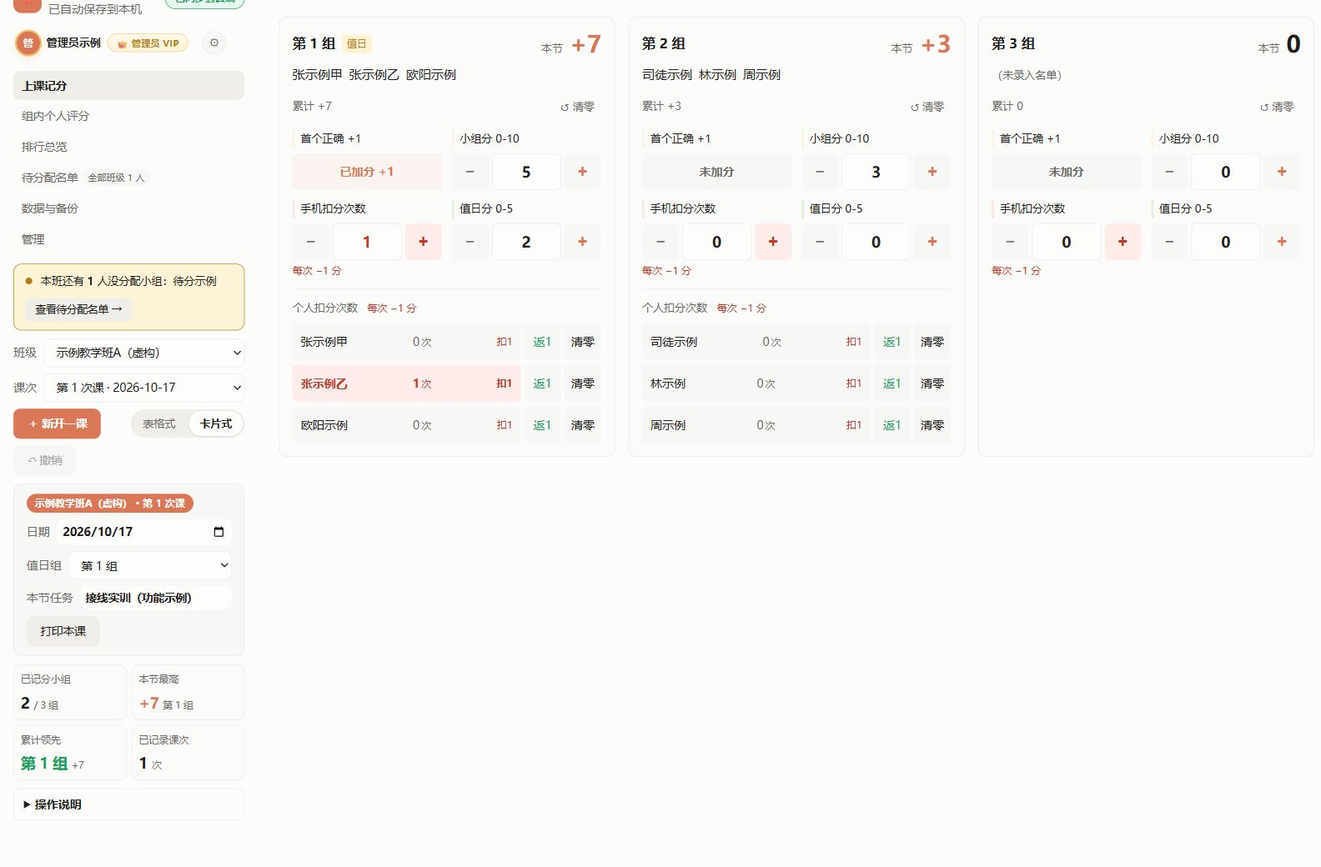
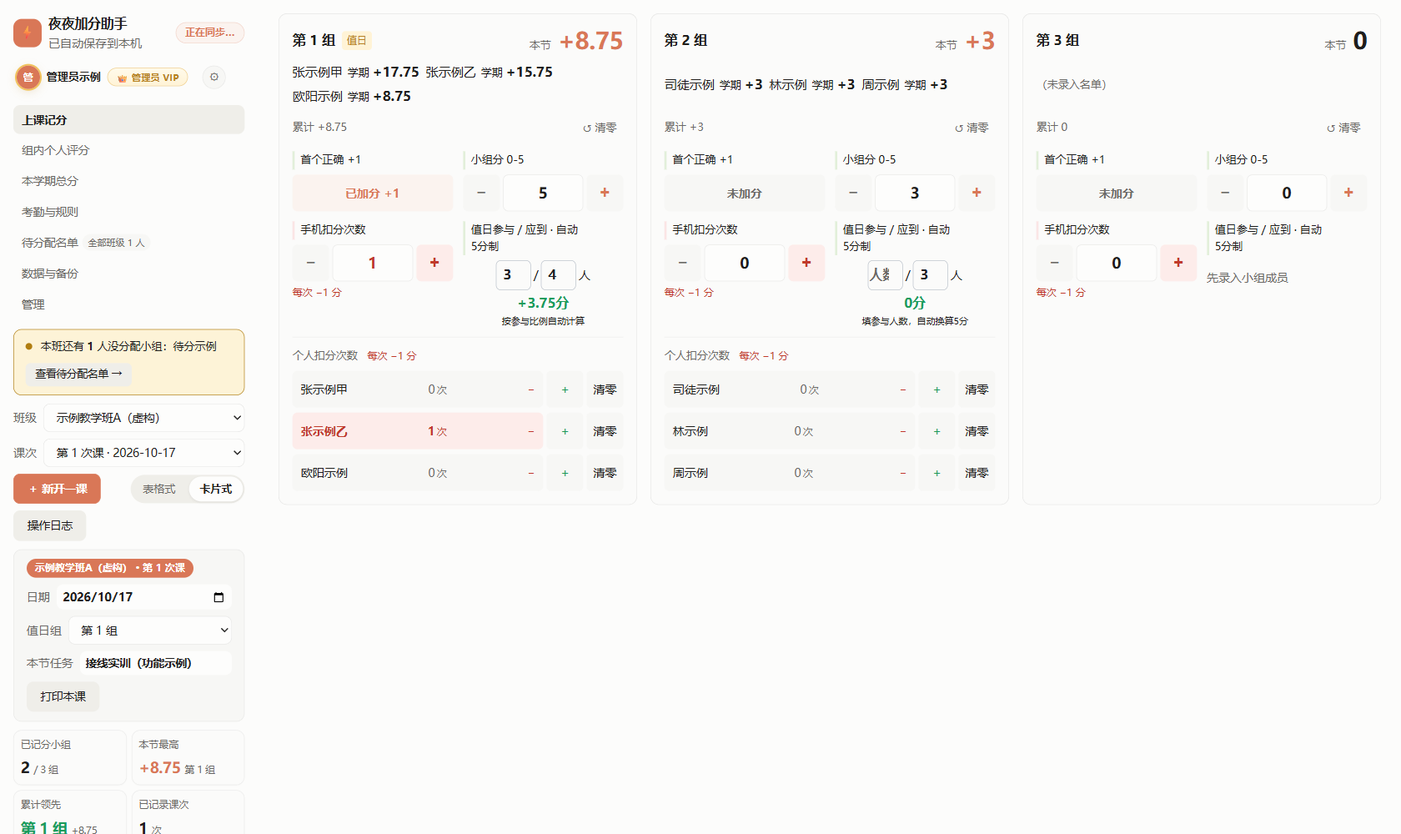
Compute duty points from participation and scale all semester rewards

diff --git a/assessment.js b/assessment.js
@@ -1,7 +1,7 @@
 /* Criterion-based regular grades; raw points and attendance history remain unchanged. */
 (function (root) {
   'use strict';
-  var defaults = {totalLessons:24, late:1, truant:3, leave:0, early:1, passScore:60, taskTarget:0, bonusCap:5, customRules:[]};
+  var defaults = {totalLessons:24, late:1, truant:3, leave:0, early:1, passScore:60, taskTarget:0, customRules:[]};
   var labels = {present:'正常出勤',late:'迟到',truant:'旷课',leave:'请假',early:'早退'};
   function esc(v) { return String(v == null?'':v).replace(/[&<>"']/g,function(c){return {'&':'&amp;','<':'&lt;','>':'&gt;','"':'&quot;',"'":'&#39;'}[c];}); }
   function round(n) { return Math.round((n+Number.EPSILON)*10)/10; }
@@ -10,7 +10,6 @@
     var cfg=Object.assign({},defaults,cls.assessmentSettings||{});
     ['totalLessons','late','truant','leave','early','passScore'].forEach(function(k){var max=k==='totalLessons'?1000:100,min=k==='totalLessons'?1:0;if(!Number.isInteger(cfg[k])||cfg[k]<min||cfg[k]>max)cfg[k]=defaults[k];});
     if(!Number.isFinite(cfg.taskTarget)||cfg.taskTarget<0||cfg.taskTarget>100000)cfg.taskTarget=0;
-    if(!Number.isFinite(cfg.bonusCap)||cfg.bonusCap<0||cfg.bonusCap>5)cfg.bonusCap=5;
     cfg.customRules=Array.isArray(cfg.customRules)?cfg.customRules.filter(function(r){return r&&typeof r.id==='string'&&typeof r.name==='string'&&Number.isInteger(r.loss)&&r.loss>=0&&r.loss<=100;}).slice(0,20):[];
     return cfg;
   }
@@ -48,8 +47,9 @@
     sorted.forEach(function(m,i){
       if(i===0||m.total!==previous)rank=i+1;previous=m.total;
       m.rawRank=rank;m.task=taskEvidence(lessons,m,cfg);
-      m.bonus=Math.max(-cfg.bonusCap,Math.min(cfg.bonusCap,m.groupScore));
-      m.learning=round(40+Math.max(0,Math.min(40,40*m.task.rate+m.bonus-m.personal)));
+      m.bonus=m.groupScore;
+      m.performanceRate=m.task.maximum>0?Math.max(0,Math.min(1,(m.task.earned+m.groupScore-m.personal)/m.task.maximum)):0;
+      m.learning=round(40+40*m.performanceRate);
       m.confirmation=(cls.foundationChecks||{})[m.key]||'pending';
       var loss=0,recorded=0;
       lessons.forEach(function(l){var a=l.attendance&&l.attendance[m.key];if(a){recorded++;loss+=Number(a.loss)||0;}});
@@ -70,21 +70,21 @@
   function confirmationText(m) {return m.confirmation==='met'?'基础要求已满足':m.confirmation==='makeup'?'待补做':'基础要求待确认';}
   function renderRank(ctx) {
     var cls=ctx.cls,cfg=settings(cls),ms=rows(cls,ctx.lessons,ctx.raw);
-    ctx.root.innerHTML='<details class="rank-note"><summary>达标赋分说明：正常完成至少60分，名次不决定赋分</summary><p>原始累计 = 全组累计加分 + 个人项目累计分 − 个人扣分，原记录保留。学习分 = 40基础 + clamp(40×任务达成率 + 有限小组奖励 − 个人扣分, 0, 40)，封顶80；再加考勤0–20得到平时分。小组奖励最多'+cfg.bonusCap+'分，全部同学都达标可以一起得高分。</p><p>达成率按本人已评分项目得分/满分计算，每个命名项目满分5；明确0分计入，未批改不当0分且标记待批改。手动基准为'+(cfg.taskTarget||'自动按已评分项目')+'。基础要求由教师确认，不自动把未做任务的学生判定及格；项目未齐、考勤未齐或基础未确认都只显示预估。考勤未记录按正常预估，不伪造签到。平时40%＋期末60%。</p></details><div class="assessment-actions"><button class="btn" id="assessmentGoAttendance">考勤与规则</button><button class="btn" id="assessmentExport">导出综合成绩CSV</button></div><div class="assessment-scroll"><table class="data assessment-table"><thead><tr><th>展示名次</th><th>姓名 / 基础要求</th><th>小组</th><th>当前累计</th><th>学习赋分/80</th><th>考勤/20</th><th>平时分/100</th><th>折合/40</th><th>期末需考/100</th><th>实际期末</th><th>综合/100</th></tr></thead><tbody>'+ms.map(function(m){return '<tr><td>'+m.rank+'</td><td><b>'+esc(m.name)+'</b><small>'+esc(m.sid||m.no||'')+'</small><select class="foundation-check" data-foundation-key="'+esc(m.key)+'" aria-label="'+esc(m.name)+' 基础要求"><option value="pending"'+(m.confirmation==='pending'?' selected':'')+'>待确认</option><option value="met"'+(m.confirmation==='met'?' selected':'')+'>已满足</option><option value="makeup"'+(m.confirmation==='makeup'?' selected':'')+'>待补做</option></select></td><td>'+(m.gno?'第'+m.gno+'组':'待分配')+'</td><td><b>'+m.total+'</b><small>全组 '+m.groupScore+' · 个人项目分 '+m.project+' · 扣 '+m.personal+'</small></td><td>'+m.learning+'<small>任务 '+m.task.earned+'/'+m.task.maximum+' · '+round(m.task.rate*100)+'%<br>小组奖励 '+m.bonus+(m.task.pending?' · '+m.task.pending+'项待批改':'')+(!m.task.maximum?' · 未设置有效任务':'')+'</small></td><td>'+m.attendance+'<small>'+m.recorded+'/'+ctx.lessons.length+'课已登记 · 扣'+m.loss+'单位</small></td><td><b>'+m.regular+'</b>'+(!m.ready?'<small>预估 · '+confirmationText(m)+'</small>':'<small>资料已齐</small>')+'</td><td>'+m.contribution+'</td><td>'+(m.needed>100?'超过100，无法达到':m.needed)+(!m.ready?'<small>预估</small>':'')+'</td><td><input class="assessment-exam" aria-label="'+esc(m.name)+' 实际期末成绩" data-exam-key="'+esc(m.key)+'" type="number" min="0" max="100" step="0.1" value="'+m.exam+'" placeholder="待考"></td><td>'+(m.final==null?'—':m.final)+(!m.ready&&m.final!==null?'<small>待复核</small>':'')+'</td></tr>';}).join('')+'</tbody></table></div><p class="rank-note">正常出勤且基础要求已满足时，平时分最低60；考勤扣分可低于60。零分不自动等于已达标。排名仅展示，不改变他人分数。及格线'+cfg.passScore+'，期末需考向上取到0.1分。含待分配'+ms.length+'人，计划'+cfg.totalLessons+'课。</p>';
+    ctx.root.innerHTML='<details class="rank-note"><summary>达标赋分说明：正常完成至少60分，名次不决定赋分</summary><p>原始累计 = 全组累计加分 + 个人项目累计分 − 个人扣分，原记录保留。所有课次的首个正确、小组分、值日分持续累计，没有学期奖励5分封顶。综合比例＝（已评项目实得＋全组累计净加分−个人扣分）÷项目满分，限定在0–100%。学习分＝40基础＋40×综合比例，最高80；加考勤0–20得到平时百分制。原始奖励积分不封顶，百分制最高100，不等于课堂只能加100个积分。例：项目80/100＋累计净奖励10→综合90%，学习76＋正常考勤20＝平时96；奖励增至20→平时100。值日只填参与/应到人数，自动5×人数比例，所有汇总随改分、撤销和补录实时重算。</p><p>达成率按本人已评分项目得分/满分计算，每个命名项目满分5；明确0分计入，未批改不当0分且标记待批改。手动基准为'+(cfg.taskTarget||'自动按已评分项目')+'。基础要求由教师确认，不自动把未做任务的学生判定及格；项目未齐、考勤未齐或基础未确认都只显示预估。考勤未记录按正常预估，不伪造签到。平时40%＋期末60%。</p></details><div class="assessment-actions"><button class="btn" id="assessmentGoAttendance">考勤与规则</button><button class="btn" id="assessmentExport">导出综合成绩CSV</button></div><div class="assessment-scroll"><table class="data assessment-table"><thead><tr><th>展示名次</th><th>姓名 / 基础要求</th><th>小组</th><th>当前累计</th><th>学习赋分/80</th><th>考勤/20</th><th>平时分/100</th><th>折合/40</th><th>期末需考/100</th><th>实际期末</th><th>综合/100</th></tr></thead><tbody>'+ms.map(function(m){return '<tr><td>'+m.rank+'</td><td><b>'+esc(m.name)+'</b><small>'+esc(m.sid||m.no||'')+'</small><select class="foundation-check" data-foundation-key="'+esc(m.key)+'" aria-label="'+esc(m.name)+' 基础要求"><option value="pending"'+(m.confirmation==='pending'?' selected':'')+'>待确认</option><option value="met"'+(m.confirmation==='met'?' selected':'')+'>已满足</option><option value="makeup"'+(m.confirmation==='makeup'?' selected':'')+'>待补做</option></select></td><td>'+(m.gno?'第'+m.gno+'组':'待分配')+'</td><td><b>'+m.total+'</b><small>全组 '+m.groupScore+' · 个人项目分 '+m.project+' · 扣 '+m.personal+'</small></td><td>'+m.learning+'<small>任务 '+m.task.earned+'/'+m.task.maximum+' · '+round(m.task.rate*100)+'%<br>累计全组净加分 '+m.bonus+'<br>综合比例 '+round(m.performanceRate*100)+'%'+(m.task.pending?' · '+m.task.pending+'项待批改':'')+(!m.task.maximum?' · 未设置有效任务':'')+'</small></td><td>'+m.attendance+'<small>'+m.recorded+'/'+ctx.lessons.length+'课已登记 · 扣'+m.loss+'单位</small></td><td><b>'+m.regular+'</b>'+(!m.ready?'<small>预估 · '+confirmationText(m)+'</small>':'<small>资料已齐</small>')+'</td><td>'+m.contribution+'</td><td>'+(m.needed>100?'超过100，无法达到':m.needed)+(!m.ready?'<small>预估</small>':'')+'</td><td><input class="assessment-exam" aria-label="'+esc(m.name)+' 实际期末成绩" data-exam-key="'+esc(m.key)+'" type="number" min="0" max="100" step="0.1" value="'+m.exam+'" placeholder="待考"></td><td>'+(m.final==null?'—':m.final)+(!m.ready&&m.final!==null?'<small>待复核</small>':'')+'</td></tr>';}).join('')+'</tbody></table></div><p class="rank-note">正常出勤且基础要求已满足时，平时分最低60；考勤扣分可低于60。零分不自动等于已达标。排名仅展示，不改变他人分数。及格线'+cfg.passScore+'，期末需考向上取到0.1分。含待分配'+ms.length+'人，计划'+cfg.totalLessons+'课。</p>';
     ctx.root.querySelector('#assessmentGoAttendance').onclick=ctx.openAttendance;
     ctx.root.querySelectorAll('[data-foundation-key]').forEach(function(input){input.onchange=function(){if(!cls.foundationChecks)cls.foundationChecks={};cls.foundationChecks[input.dataset.foundationKey]=input.value;var m=ms.find(function(m){return m.key===input.dataset.foundationKey;});ctx.log('基础要求确认',cls.name+' · '+m.name+' → '+input.options[input.selectedIndex].textContent);ctx.save();renderRank(ctx);};});
     ctx.root.querySelectorAll('[data-exam-key]').forEach(function(input){input.onchange=function(){var v=input.value===''?null:Number(input.value);if(v!==null&&(!Number.isFinite(v)||v<0||v>100)){ctx.message('期末成绩须为0–100分。');return;}var old=cls.examScores&&cls.examScores[input.dataset.examKey];if(!cls.examScores)cls.examScores={};if(v===null)delete cls.examScores[input.dataset.examKey];else cls.examScores[input.dataset.examKey]=v;ctx.log('期末成绩',cls.name+' · '+ms.find(function(m){return m.key===input.dataset.examKey;}).name+'：'+(old==null?'未填':old)+' → '+(v===null?'未填':v));ctx.save();renderRank(ctx);};});
-    ctx.root.querySelector('#assessmentExport').onclick=function(){ctx.export(cls.name+'_综合成绩.csv',[['展示名次','姓名','学号','小组','原始累计','任务得分','任务满分','待批改数','达成率','有限小组奖励','学习赋分/80','考勤/20','平时分/100','折合/40','期末需考','实际期末','综合/100','基础要求','资料齐全']].concat(ms.map(function(m){return [m.rank,m.name,m.sid||m.no||'',m.gno||'待分配',m.total,m.task.earned,m.task.maximum,m.task.pending,round(m.task.rate*100)+'%',m.bonus,m.learning,m.attendance,m.regular,m.contribution,m.needed>100?'超过100':m.needed,m.exam,m.final==null?'':m.final,confirmationText(m),m.ready?'是':'否，预估待复核'];})));};
+    ctx.root.querySelector('#assessmentExport').onclick=function(){ctx.export(cls.name+'_综合成绩.csv',[['展示名次','姓名','学号','小组','原始累计','任务得分','任务满分','待批改数','达成率','累计全组净加分','学习赋分/80','考勤/20','平时分/100','折合/40','期末需考','实际期末','综合/100','基础要求','资料齐全']].concat(ms.map(function(m){return [m.rank,m.name,m.sid||m.no||'',m.gno||'待分配',m.total,m.task.earned,m.task.maximum,m.task.pending,round(m.task.rate*100)+'%',m.bonus,m.learning,m.attendance,m.regular,m.contribution,m.needed>100?'超过100':m.needed,m.exam,m.final==null?'':m.final,confirmationText(m),m.ready?'是':'否，预估待复核'];})));};
   }
   function renderAttendance(ctx) {
     var cls=ctx.cls,cfg=settings(cls),students=roster(cls,ctx.raw),lesson=ctx.lesson;
-    ctx.root.innerHTML='<h2 class="sec-title">考勤与扣分设置</h2><div class="card lesson-bar"><label class="field">班级<select id="attendanceClassSel">'+ctx.classes.map(function(c){return '<option value="'+esc(c.id)+'"'+(c.id===cls.id?' selected':'')+'>'+esc(c.name)+'</option>';}).join('')+'</select></label><label class="field">课次<select id="attendanceLessonSel"'+(!ctx.lessons.length?' disabled':'')+'>'+(!ctx.lessons.length?'<option>暂无课次</option>':ctx.lessons.map(function(l){return '<option value="'+esc(l.id)+'"'+(lesson&&l.id===lesson.id?' selected':'')+'>第'+l.seq+'次 · '+esc(l.date)+'</option>';}).join(''))+'</select></label></div><details class="card assessment-settings"><summary>本班赋分与考勤规则</summary><form id="assessmentSettingsForm"><div class="assessment-settings-grid">'+[['totalLessons','本学期计划课次',1,1000],['late','迟到扣课节单位',0,100],['truant','旷课扣课节单位',0,100],['leave','请假扣课节单位',0,100],['early','早退扣课节单位',0,100],['passScore','综合及格线',0,100],['taskTarget','手动任务满分（0为自动）',0,100000],['bonusCap','小组奖励上限（最多5）',0,5]].map(function(f){return '<label class="field col">'+f[1]+'<input name="'+f[0]+'" type="number" step="1" min="'+f[2]+'" max="'+f[3]+'" value="'+cfg[f[0]]+'" required></label>';}).join('')+'</div><p class="note">考勤分 = max(0, 20 × (计划课次 − 累计扣单位) ÷ 计划课次)。旧考勤保留当时扣单位，规则修改仅用于之后登记；如需调整旧记录，请在对应课次重新保存。学习40基础+40任务表现（含最多5分小组奖励），正常考勤20，平时40%+期末60%。手动满分为0时按命名且已评分项目计算，空白待批改不会当0。</p><button type="submit" class="btn primary">保存本班规则</button></form><h4>自定义原因</h4><div id="attendanceCustomRules">'+(cfg.customRules||[]).map(function(r){return '<span class="attendance-rule">'+esc(r.name)+' · 扣'+r.loss+'单位 <button class="btn tiny" data-remove-rule="'+esc(r.id)+'" title="停用规则，历史记录保留">停用</button></span>';}).join('')+'</div><form id="attendanceCustomForm" class="btnrow"><input id="attendanceCustomName" aria-label="自定义考勤原因" maxlength="40" placeholder="例如：未到原因" required><input id="attendanceCustomLoss" aria-label="自定义扣单位" type="number" min="0" max="100" step="1" value="1" required><button class="btn" type="submit">添加原因</button></form></details><p class="note">按课次保存，包含未分组人员。未登记不伪造出勤记录；修改此表只影响考勤模块，不重复扣课堂积分。</p>'+(lesson?'<div class="card"><div class="assessment-actions"><input id="attendanceSearch" aria-label="搜索考勤学生" placeholder="姓名 / 学号"><label><input id="attendanceSelectAll" type="checkbox">全选可见</label><select id="attendanceBatchStatus" aria-label="批量考勤状态">'+options(cfg,'')+'</select><button id="attendanceApplyBatch" class="btn">应用到所选</button><button id="attendanceSave" class="btn primary">保存本课考勤</button></div><p id="attendanceDirty" class="note" role="status">没有未保存的改动。</p><div class="assessment-scroll"><table class="data attendance-table"><thead><tr><th>选择</th><th>姓名</th><th>学号</th><th>小组</th><th>本课状态</th><th>已保存扣单位</th></tr></thead><tbody>'+students.map(function(m){var a=lesson.attendance&&lesson.attendance[m.key];return '<tr data-att-row><td><input type="checkbox" data-att-check="'+esc(m.key)+'" aria-label="选择'+esc(m.name)+'"></td><td>'+esc(m.name)+'</td><td>'+esc(m.sid||m.no||'')+'</td><td>'+(m.gno?'第'+m.gno+'组':'待分配')+'</td><td><select data-att-key="'+esc(m.key)+'" aria-label="'+esc(m.name)+' 考勤">'+options(cfg,a&&a.status)+'</select>'+(a&&!labels[a.status]&&!(cfg.customRules||[]).some(function(r){return r.id===a.status;})?'<small>历史原因：'+esc(a.label)+'（保留）</small>':'')+'</td><td>'+(a?a.loss:'—')+'</td></tr>';}).join('')+'</tbody></table></div></div>':'<p class="card">请先在上课记分中新开一课，再登记考勤。</p>');
+    ctx.root.innerHTML='<h2 class="sec-title">考勤与扣分设置</h2><div class="card lesson-bar"><label class="field">班级<select id="attendanceClassSel">'+ctx.classes.map(function(c){return '<option value="'+esc(c.id)+'"'+(c.id===cls.id?' selected':'')+'>'+esc(c.name)+'</option>';}).join('')+'</select></label><label class="field">课次<select id="attendanceLessonSel"'+(!ctx.lessons.length?' disabled':'')+'>'+(!ctx.lessons.length?'<option>暂无课次</option>':ctx.lessons.map(function(l){return '<option value="'+esc(l.id)+'"'+(lesson&&l.id===lesson.id?' selected':'')+'>第'+l.seq+'次 · '+esc(l.date)+'</option>';}).join(''))+'</select></label></div><details class="card assessment-settings"><summary>本班赋分与考勤规则</summary><form id="assessmentSettingsForm"><div class="assessment-settings-grid">'+[['totalLessons','本学期计划课次',1,1000],['late','迟到扣课节单位',0,100],['truant','旷课扣课节单位',0,100],['leave','请假扣课节单位',0,100],['early','早退扣课节单位',0,100],['passScore','综合及格线',0,100],['taskTarget','手动任务满分（0为自动）',0,100000]].map(function(f){return '<label class="field col">'+f[1]+'<input name="'+f[0]+'" type="number" step="1" min="'+f[2]+'" max="'+f[3]+'" value="'+cfg[f[0]]+'" required></label>';}).join('')+'</div><p class="note">考勤分 = max(0, 20 × (计划课次 − 累计扣单位) ÷ 计划课次)。旧考勤保留当时扣单位，规则修改仅用于之后登记；如需调整旧记录，请在对应课次重新保存。学习40基础+40综合表现（项目与长期累计奖励共同折算，不限奖励总积分），正常考勤20，平时40%+期末60%。手动满分为0时按命名且已评分项目计算，空白待批改不会当0。</p><button type="submit" class="btn primary">保存本班规则</button></form><h4>自定义原因</h4><div id="attendanceCustomRules">'+(cfg.customRules||[]).map(function(r){return '<span class="attendance-rule">'+esc(r.name)+' · 扣'+r.loss+'单位 <button class="btn tiny" data-remove-rule="'+esc(r.id)+'" title="停用规则，历史记录保留">停用</button></span>';}).join('')+'</div><form id="attendanceCustomForm" class="btnrow"><input id="attendanceCustomName" aria-label="自定义考勤原因" maxlength="40" placeholder="例如：未到原因" required><input id="attendanceCustomLoss" aria-label="自定义扣单位" type="number" min="0" max="100" step="1" value="1" required><button class="btn" type="submit">添加原因</button></form></details><p class="note">按课次保存，包含未分组人员。未登记不伪造出勤记录；修改此表只影响考勤模块，不重复扣课堂积分。</p>'+(lesson?'<div class="card"><div class="assessment-actions"><input id="attendanceSearch" aria-label="搜索考勤学生" placeholder="姓名 / 学号"><label><input id="attendanceSelectAll" type="checkbox">全选可见</label><select id="attendanceBatchStatus" aria-label="批量考勤状态">'+options(cfg,'')+'</select><button id="attendanceApplyBatch" class="btn">应用到所选</button><button id="attendanceSave" class="btn primary">保存本课考勤</button></div><p id="attendanceDirty" class="note" role="status">没有未保存的改动。</p><div class="assessment-scroll"><table class="data attendance-table"><thead><tr><th>选择</th><th>姓名</th><th>学号</th><th>小组</th><th>本课状态</th><th>已保存扣单位</th></tr></thead><tbody>'+students.map(function(m){var a=lesson.attendance&&lesson.attendance[m.key];return '<tr data-att-row><td><input type="checkbox" data-att-check="'+esc(m.key)+'" aria-label="选择'+esc(m.name)+'"></td><td>'+esc(m.name)+'</td><td>'+esc(m.sid||m.no||'')+'</td><td>'+(m.gno?'第'+m.gno+'组':'待分配')+'</td><td><select data-att-key="'+esc(m.key)+'" aria-label="'+esc(m.name)+' 考勤">'+options(cfg,a&&a.status)+'</select>'+(a&&!labels[a.status]&&!(cfg.customRules||[]).some(function(r){return r.id===a.status;})?'<small>历史原因：'+esc(a.label)+'（保留）</small>':'')+'</td><td>'+(a?a.loss:'—')+'</td></tr>';}).join('')+'</tbody></table></div></div>':'<p class="card">请先在上课记分中新开一课，再登记考勤。</p>');
     var dirty=false,changed=new Set();
     function mark(){dirty=true;var el=ctx.root.querySelector('#attendanceDirty');if(el)el.textContent='有未保存的考勤改动，请点击保存本课考勤。';}
     function guard(){if(dirty){ctx.message('请先保存本课考勤，再切换班级或课次。');return false;}return true;}
     ctx.root.querySelector('#attendanceClassSel').onchange=function(){if(!guard()){this.value=cls.id;return;}ctx.select(this.value,null);};
     ctx.root.querySelector('#attendanceLessonSel').onchange=function(){if(!guard()){this.value=lesson.id;return;}ctx.select(cls.id,this.value);};
-    ctx.root.querySelector('#assessmentSettingsForm').onsubmit=function(e){e.preventDefault();if(!guard())return;var next=Object.assign({},cfg);for(var name of ['totalLessons','late','truant','leave','early','passScore','taskTarget','bonusCap']){var input=this.elements.namedItem(name),v=Number(input.value);if(!Number.isInteger(v)||v<Number(input.min)||v>Number(input.max)){ctx.message('请填写范围内的整数。');return;}next[name]=v;}cls.assessmentSettings=next;cfg=next;ctx.log('考勤规则',cls.name+' · 计划'+next.totalLessons+'课；迟到'+next.late+'，旷课'+next.truant+'，请假'+next.leave+'，早退'+next.early+'单位；及格线'+next.passScore);ctx.save();ctx.message('本班规则已保存。');};
+    ctx.root.querySelector('#assessmentSettingsForm').onsubmit=function(e){e.preventDefault();if(!guard())return;var next=Object.assign({},cfg);for(var name of ['totalLessons','late','truant','leave','early','passScore','taskTarget']){var input=this.elements.namedItem(name),v=Number(input.value);if(!Number.isInteger(v)||v<Number(input.min)||v>Number(input.max)){ctx.message('请填写范围内的整数。');return;}next[name]=v;}cls.assessmentSettings=next;cfg=next;ctx.log('考勤规则',cls.name+' · 计划'+next.totalLessons+'课；迟到'+next.late+'，旷课'+next.truant+'，请假'+next.leave+'，早退'+next.early+'单位；及格线'+next.passScore);ctx.save();ctx.message('本班规则已保存。');};
     ctx.root.querySelector('#attendanceCustomForm').onsubmit=function(e){e.preventDefault();if(!guard())return;var name=ctx.root.querySelector('#attendanceCustomName').value.trim(),loss=Number(ctx.root.querySelector('#attendanceCustomLoss').value);if(!name||name.length>40||!Number.isInteger(loss)||loss<0||loss>100||Object.keys(labels).some(function(s){return labels[s]===name;})||(cfg.customRules||[]).some(function(r){return r.name===name;})||(cfg.customRules||[]).length>=20){ctx.message('原因须唯一，最多20项，扣单位为0–100整数。');return;}var next=Object.assign({},cfg,{customRules:(cfg.customRules||[]).concat([{id:'custom_'+Date.now().toString(36),name:name,loss:loss}])});cls.assessmentSettings=next;ctx.log('考勤规则',cls.name+' · 新增'+name+'：扣'+loss+'单位');ctx.save();renderAttendance(ctx);};
     ctx.root.querySelectorAll('[data-remove-rule]').forEach(function(b){b.onclick=function(){if(!guard())return;cls.assessmentSettings=Object.assign({},cfg,{customRules:(cfg.customRules||[]).filter(function(r){return r.id!==b.dataset.removeRule;})});ctx.log('考勤规则',cls.name+' · 停用自定义原因，历史保留');ctx.save();renderAttendance(ctx);};});
     if(!lesson)return;
@@ -97,7 +97,7 @@
   }
   function printHtml(cls,lessons,raw) {
     var ms=rows(cls,lessons,raw);
-    return '<h2>平时赋分与期末测算</h2><p>达标赋分：学习40基础＋40任务表现，考勤20；平时40%＋期末60%。名次只展示，未确认/未批改/考勤未齐为预估。</p><table><thead><tr><th>名次</th><th>姓名</th><th>学号</th><th>当前累计</th><th>学习/80</th><th>考勤/20</th><th>平时/100</th><th>折合/40</th><th>期末需考</th><th>实际期末</th><th>综合</th><th>基础要求/状态</th></tr></thead><tbody>'+ms.map(function(m){return '<tr><td>'+m.rank+'</td><td>'+esc(m.name)+'</td><td>'+esc(m.sid||m.no||'')+'</td><td>'+m.total+'</td><td>'+m.learning+'</td><td>'+m.attendance+'</td><td>'+m.regular+'</td><td>'+m.contribution+'</td><td>'+(m.needed>100?'超过100':m.needed)+'</td><td>'+m.exam+'</td><td>'+(m.final==null?'—':m.final)+'</td><td>'+esc(confirmationText(m))+(m.ready?' · 已齐':' · 预估')+'</td></tr>';}).join('')+'</tbody></table>';
+    return '<h2>平时赋分与期末测算</h2><p>达标赋分：学习40基础＋40综合表现（全部累计奖励参与），考勤20；平时40%＋期末60%。名次只展示，未确认/未批改/考勤未齐为预估。</p><table><thead><tr><th>名次</th><th>姓名</th><th>学号</th><th>当前累计</th><th>学习/80</th><th>考勤/20</th><th>平时/100</th><th>折合/40</th><th>期末需考</th><th>实际期末</th><th>综合</th><th>基础要求/状态</th></tr></thead><tbody>'+ms.map(function(m){return '<tr><td>'+m.rank+'</td><td>'+esc(m.name)+'</td><td>'+esc(m.sid||m.no||'')+'</td><td>'+m.total+'</td><td>'+m.learning+'</td><td>'+m.attendance+'</td><td>'+m.regular+'</td><td>'+m.contribution+'</td><td>'+(m.needed>100?'超过100':m.needed)+'</td><td>'+m.exam+'</td><td>'+(m.final==null?'—':m.final)+'</td><td>'+esc(confirmationText(m))+(m.ready?' · 已齐':' · 预估')+'</td></tr>';}).join('')+'</tbody></table>';
   }
   root.JFDT_ASSESSMENT={printHtml:printHtml,taskEvidence:taskEvidence,key:key,settings:settings,roster:roster,rows:rows,deduction:deduction,renderRank:renderRank,renderAttendance:renderAttendance};
 })(typeof window==='undefined'?globalThis:window);

diff --git a/app.js b/app.js
@@ -281,12 +281,12 @@ function removeMemberAt(cls, g, j) {
   function groupTotal(lesson, gno) {
     var s = lesson.scores[String(gno)];
     if (!s) return 0;
-    return (s.first ? 1 : 0) + (+s.group || 0) + (+s.duty || 0) - (+s.phone || 0);
+    return Math.round(((s.first ? 1 : 0) + (+s.group || 0) + (+s.duty || 0) - (+s.phone || 0))*100)/100;
   }
 
   /** 小组累计（该班全部课次） */
   function groupCum(cls, gno) {
-    return lessonsOf(cls.id).reduce(function (a, l) { return a + groupTotal(l, gno); }, 0);
+    return Math.round(lessonsOf(cls.id).reduce(function (a, l) { return a + groupTotal(l, gno); }, 0)*100)/100;
   }
 
   /** 某节课是否给该组记过任何东西 */
@@ -315,7 +315,7 @@ function removeMemberAt(cls, g, j) {
     var ls = lessonsOf(cls.id);
     var out = [];
     cls.groups.forEach(function (g) {
-      var gs = ls.reduce(function (a, l) { return a + groupTotal(l, g.no); }, 0);
+      var gs = groupCum(cls,g.no);
       g.members.forEach(function (m, idx) {
         if (!m.name) return;
         var p = ls.reduce(function (a, l) {
@@ -324,7 +324,7 @@ function removeMemberAt(cls, g, j) {
         }, 0);
         out.push({
           name: m.name, sid: m.sid, no: m.no, gno: g.no,
-          groupScore: gs, project: ls.reduce(function(a,l){return a+projectScore(l,g.no,m);},0), personal: p, total: gs + ls.reduce(function(a,l){return a+projectScore(l,g.no,m);},0) - p
+          groupScore: gs, project: ls.reduce(function(a,l){return a+projectScore(l,g.no,m);},0), personal: p, total: Math.round((gs + ls.reduce(function(a,l){return a+projectScore(l,g.no,m);},0) - p)*100)/100
         });
       });
     });
@@ -345,7 +345,7 @@ function removeMemberAt(cls, g, j) {
   function pushUndo(op) {
     if (!S.undo) S.undo = [];
     op.at = new Date().toISOString();
-    addOperationLog('记分', undoLabel(Object.assign({},op,{old:op.neu,neu:op.old})));
+    addOperationLog('记分', undoLabel(reverseOp(op)));
     S.redo = [];
     S.undo.push(op);
     if (S.undo.length > UNDO_MAX) S.undo.shift();
@@ -364,12 +364,16 @@ function removeMemberAt(cls, g, j) {
     var lesson = getLesson(op.lessonId), cls = lesson && getClass(lesson.classId);
     var g = (cls ? cls.name + ' · 第' + lesson.seq + '次课 · ' : '') + '第 ' + op.gno + ' 组';
     if (op.reset) return g + ' 本节清零';
+    if(op.f==='duty'&&Object.prototype.hasOwnProperty.call(op,'neuDutyMeta'))return g+' 值日 '+dutyLabel(op.neuDutyMeta,op.neu)+' → '+dutyLabel(op.oldDutyMeta,op.old);
     if (op.i != null) {
       return g + ' ' + (op.name || '成员') + ' 个人扣分 ' + op.neu + ' → ' + op.old;
     }
     return g + ' ' + (FIELD_NAME[op.f] || op.f) + ' ' + showVal(op.f, op.neu) +
       ' → ' + showVal(op.f, op.old);
   }
+
+  function dutyLabel(meta,value){return (meta?meta.present+'/'+meta.expected+'人，':'历史分 ')+value+'分';}
+  function reverseOp(op){return Object.assign({},op,{old:op.neu,neu:op.old},Object.prototype.hasOwnProperty.call(op,'oldDutyMeta')?{oldDutyMeta:op.neuDutyMeta,neuDutyMeta:op.oldDutyMeta}:{});}
 
   function showVal(f, v) {
     if (f === 'first') return v ? '已加' : '未加';
@@ -399,7 +403,7 @@ function removeMemberAt(cls, g, j) {
       '<h4>已撤销 · 可恢复</h4>'+((S.redo||[]).length ? S.redo.map(function(entry,index){return '<article class="operation-row"><div><small>已撤销</small><div>'+esc(undoLabel(entry.op))+'</div></div><button class="btn log-restore" data-redo-index="'+index+'" '+(index!==S.redo.length-1?'disabled title="请先恢复最近撤销的一项"':'')+'>↷ 恢复</button></article>';}).reverse().join(''):'<p class="note">暂无待恢复记录。</p>')+
       '<details><summary>完整操作流水（仅核对）</summary>'+entries.map(function(e){return '<article class="operation-row"><div><small>'+esc(new Date(e.at).toLocaleString())+' · '+esc(e.kind)+'</small><div>'+esc(e.detail)+'</div></div></article>';}).join('')+'</details>';
     var entry=(S.redo || []).slice(-1)[0];
-    $('#redoDetail').textContent=entry ? '下一步重做：'+undoLabel(Object.assign({},entry.op,{old:entry.op.neu,neu:entry.op.old})) : '暂无可重做操作';
+    $('#redoDetail').textContent=entry ? '下一步重做：'+undoLabel(reverseOp(entry.op)) : '暂无可重做操作';
   }
 
   function fadeLogRow(row) {
@@ -455,6 +459,7 @@ function removeMemberAt(cls, g, j) {
       var s = sc(l, op.gno);
       if (op.i != null) s.personal[op.i] = op.old;
       else s[op.f] = op.old;
+      if(op.f==='duty' && Object.prototype.hasOwnProperty.call(op,'oldDutyMeta')){if(op.oldDutyMeta)s.dutyParticipation=op.oldDutyMeta;else delete s.dutyParticipation;}
     }
 
     var cls = getClass(l.classId);
@@ -687,6 +692,12 @@ function removeMemberAt(cls, g, j) {
     '</div>';
   }
 
+  function ctlDuty(gno,s,count) {
+    var record=s.dutyParticipation,expected=record?record.expected:count;
+    if(!expected)return '<span class="note">先录入小组成员</span>';
+    return '<div class="duty-ratio" data-duty-group="'+gno+'"><div class="duty-people"><input type="number" inputmode="numeric" min="0" max="99" step="1" data-duty-present="'+gno+'" aria-label="第'+gno+'组值日参与人数" placeholder="人数" value="'+(record?record.present:'')+'"><span>/</span><input type="number" inputmode="numeric" min="1" max="99" step="1" data-duty-expected="'+gno+'" aria-label="第'+gno+'组值日应到人数" value="'+expected+'"><span>人</span></div><span class="duty-earned" data-duty-earned="'+gno+'">'+fmt(+s.duty||0)+'分</span><small>'+(record?'按参与比例自动计算':(+s.duty?'历史分保留；填人数后自动计算':'填参与人数，自动换算5分'))+'</small></div>';
+  }
+
   function semesterBadge(cls,gno,index) {
     var m=memberTotals(cls).find(function(m){return m.gno===gno && m.sid===cls.groups.find(function(g){return g.no===gno;}).members[index].sid && m.name===cls.groups.find(function(g){return g.no===gno;}).members[index].name;});
     return '<span class="semester-score" data-semester-group="'+gno+'" data-semester-index="'+index+'" title="本学期全部课次：个人项目分＋全组加分−个人扣分">学期 <b>'+fmt(m?m.total:0)+'</b></span>';
@@ -760,8 +771,8 @@ function removeMemberAt(cls, g, j) {
             ctlStep(g.no, 'phone', s, maxPhone, '手机未入袋') +
           '</div>' +
           '<div>' +
-            '<div class="lbl">值日分 0-5</div>' +
-            ctlStep(g.no, 'duty', s, maxOf('duty', maxPhone), '值日分') +
+            '<div class="lbl">值日参与 / 应到 · 自动5分制</div>' +
+            ctlDuty(g.no,s,cnt) +
           '</div>' +
         '</div>' +
         personal +
@@ -786,7 +797,7 @@ function removeMemberAt(cls, g, j) {
         '<th class="c-phone" rowspan="2">全组·手机未入袋<br>（-1/人）</th>' +
         '<th class="c-first" rowspan="2">全组·首个正确<br>(+1)</th>' +
         '<th class="c-grp" rowspan="2">全组·小组分<br>(0-5)</th>' +
-        '<th class="c-duty" rowspan="2">全组·值日分<br>(0-5)</th>' +
+        '<th class="c-duty" rowspan="2">全组·值日<br>参与/应到 · 自动换算5分</th>' +
         '<th class="c-sum" rowspan="2">本节<br>合计</th>' +
       '</tr><tr>' + sub + '</tr>' +
     '</thead>';
@@ -813,7 +824,7 @@ function removeMemberAt(cls, g, j) {
           '<td class="c-phone" rowspan="2">' + ctlStep(g.no, 'phone', s, maxPhone, '手机未入袋') + '</td>' +
           '<td class="c-first" rowspan="2">' + ctlFirst(g.no, s) + '</td>' +
           '<td class="c-grp" rowspan="2">' + ctlStep(g.no, 'group', s, maxOf('group', maxPhone), '小组分') + '</td>' +
-          '<td class="c-duty" rowspan="2">' + ctlStep(g.no, 'duty', s, maxOf('duty', maxPhone), '值日分') + '</td>' +
+          '<td class="c-duty" rowspan="2">' + ctlDuty(g.no,s,cnt) + '</td>' +
           '<td class="c-sum" rowspan="2">' + ctlSum(g.no, groupTotal(lesson, g.no), groupCum(cls, g.no)) +
             ctlClear(g.no, true) + '</td>' +
         '</tr>' +
@@ -863,6 +874,7 @@ function removeMemberAt(cls, g, j) {
     $('[data-cum="' + gno + '"]', card).textContent = '学期全组 ' + fmt(groupCum(cls, gno));
     var totals=memberTotals(cls);
     $$('[data-semester-group]',card).forEach(function(el){var member=cls.groups.find(function(g){return g.no===gno;}).members[+el.dataset.semesterIndex];var total=totals.find(function(m){return m.gno===gno && m.name===member.name && m.sid===member.sid;});el.querySelector('b').textContent=fmt(total?total.total:0);});
+    var duty=$('.duty-ratio',card);if(duty)duty.outerHTML=ctlDuty(gno,s,memberCount(groupOf(cls,gno)));
     card.classList.toggle('touched', touched(lesson, gno));
     $$('.num', card).forEach(function (inp) {
       var f = inp.dataset.f;
@@ -1021,6 +1033,20 @@ function removeMemberAt(cls, g, j) {
   /* 清零使用明确按钮，避免连续两次扣分被浏览器dblclick误判为清零。 */
 
   $('#groupList').addEventListener('change', function (e) {
+    var dutyInput=e.target.closest('[data-duty-present],[data-duty-expected]');
+    if(dutyInput){
+      var cls=curClass(),lesson=curLesson(cls);if(!lesson)return;
+      var gno=+(dutyInput.dataset.dutyPresent||dutyInput.dataset.dutyExpected),box=dutyInput.closest('.duty-ratio');
+      var presentText=box.querySelector('[data-duty-present]').value,expectedText=box.querySelector('[data-duty-expected]').value;
+      var present=Number(presentText),expected=Number(expectedText),s=sc(lesson,gno);
+      if(presentText===''&&expectedText!==''&&Number.isInteger(expected)&&expected>=1&&expected<=99)return;
+      if(presentText===''||expectedText===''||!Number.isInteger(present)||!Number.isInteger(expected)||expected<1||expected>99||present<0||present>expected){flash('值日人数须为整数，参与人数不能超过应到人数。');refreshCard(cls,lesson,gno);return;}
+      var oldMeta=s.dutyParticipation?JSON.parse(JSON.stringify(s.dutyParticipation)):null,old=+s.duty||0,next=Math.round(500*present/expected)/100;
+      if(oldMeta&&oldMeta.present===present&&oldMeta.expected===expected)return;
+      s.dutyParticipation={present:present,expected:expected};s.duty=next;
+      pushUndo({lessonId:lesson.id,gno:gno,f:'duty',old:old,neu:next,oldDutyMeta:oldMeta,neuDutyMeta:{present:present,expected:expected}});
+      save();refreshCard(cls,lesson,gno);renderMetrics(cls,lesson);if(next!==old)scoreFeedback(gno,'duty',null,next-old);return;
+    }
     var inp = e.target.closest('input.num');
     if (!inp) return;
     var cls = curClass(), lesson = curLesson(cls);
@@ -1510,12 +1536,13 @@ function removeMemberAt(cls, g, j) {
     var rows = [['班级', cls.name, '第 ' + lesson.seq + ' 次课', '日期', lesson.date || '',
                  '本节任务', lesson.topic || '', '值日组', lesson.dutyGroup || '']];
     rows.push([]);
-    rows.push(['组号', '成员', '首个正确', '小组分', '手机未入袋', '值日分', '个人扣分合计', '本节合计', '小组累计']);
+    rows.push(['组号', '成员', '首个正确', '小组分', '手机未入袋', '值日分', '值日参与人数', '值日应到人数', '个人扣分合计', '本节合计', '小组累计']);
     cls.groups.forEach(function (g) {
       var s = sc(lesson, g.no);
       rows.push([g.no,
         g.members.map(function (m) { return m.name; }).join('、'),
         s.first ? 1 : 0, +s.group || 0, +s.phone || 0, +s.duty || 0,
+        s.dutyParticipation?s.dutyParticipation.present:'',s.dutyParticipation?s.dutyParticipation.expected:'',
         personalSum(lesson, g.no), groupTotal(lesson, g.no), groupCum(cls, g.no)]);
     });
     download(cls.name + '_第' + lesson.seq + '次课_' + stamp() + '.csv', toCsv(rows), 'text/csv');
@@ -1631,7 +1658,7 @@ function removeMemberAt(cls, g, j) {
   }
 
   var XL_RULE = '加分规则：①首个正确完成并通过验收的小组「首个正确」+1（整组）；' +
-    '②「小组分」为整组完成质量（0-5分）；③本节课值日组「值日分」0-5 分（按工具清点与场地整理质量评分）。' +
+    '②「小组分」为整组完成质量（0-5分）；③值日分由参与/应到人数自动换算，5×参与人数÷应到人数，保留两位小数。' +
     '扣分规则：④课堂说话等违纪，由教师在对应成员的姓名下方「个人扣分」栏记录，每次 -1（犯几次记几次）；' +
     '⑤手机未入袋（纪委按学号登记），本组每人 -1。';
 
@@ -1659,7 +1686,7 @@ function removeMemberAt(cls, g, j) {
       '<th class="c-phone" rowspan="2">全组·手机未入袋<br>（-1/人）</th>' +
       '<th class="c-first" rowspan="2">全组·首个正确<br>(+1)</th>' +
       '<th class="c-grp" rowspan="2">全组·小组分<br>(0-5)</th>' +
-      '<th class="c-duty" rowspan="2">全组·值日分<br>(0-5)</th>' +
+      '<th class="c-duty" rowspan="2">全组·值日<br>参与/应到 · 自动换算5分</th>' +
       '<th class="c-sum" rowspan="2">本节<br>合计</th>' +
       '</tr><tr>' + subHead + '</tr></thead>';
 
@@ -1681,7 +1708,7 @@ function removeMemberAt(cls, g, j) {
           '<td class="c-phone" rowspan="2">' + (+s.phone || '') + '</td>' +
           '<td class="c-first" rowspan="2">' + (s.first ? 1 : '') + '</td>' +
           '<td class="c-grp" rowspan="2">' + (+s.group || '') + '</td>' +
-          '<td class="c-duty" rowspan="2">' + (+s.duty || '') + '</td>' +
+          '<td class="c-duty" rowspan="2">' + (+s.duty || '') + (s.dutyParticipation?'<br><small>'+s.dutyParticipation.present+'/'+s.dutyParticipation.expected+'人</small>':'') + '</td>' +
           '<td class="c-sum" rowspan="2">' +
             (touched(lesson, g.no) ? fmt(groupTotal(lesson, g.no)) : '') + '</td>' +
         '</tr>' +
@@ -1793,7 +1820,7 @@ function removeMemberAt(cls, g, j) {
     var l = getLesson(entry.op.lessonId); if(!l) {renderUndoBtn();return false;}
     l.scores[String(entry.op.gno)] = entry.scores;
     S.undo.push(entry.op); S.ui.classId=l.classId; S.ui.lessonId=l.id;
-    addOperationLog('重做',undoLabel(Object.assign({},entry.op,{old:entry.op.neu,neu:entry.op.old})));
+    addOperationLog('重做',undoLabel(reverseOp(entry.op)));
     save(false); renderScore(); renderUndoBtn(); flash('已重做：' + undoLabel(entry.op)); return true;
   }
   $('#btnRedo').addEventListener('click', redo);

diff --git a/styles.css b/styles.css
@@ -1239,3 +1239,9 @@ table.sheet td.c-sum .c { font-size: 13px; color: var(--text); }
 @media(min-width:1600px){.rank-columns {grid-template-columns:240px minmax(0,1fr);}.rank-groups .bar-row {grid-template-columns:75px minmax(30px,1fr) 40px;gap:8px;}.rank-groups .who {font-size:13px;}}
 @media print{.assessment-actions,.assessment-settings {display:none;}.rank-columns{display:block;}}
 @media(min-width:1600px){.rank-groups{position:sticky;top:16px;}.rank-members .assessment-scroll{max-height:70dvh;}.assessment-table thead th{position:sticky;top:0;z-index:1;background:var(--panel);}}
+
+.duty-ratio {display:flex;flex-direction:column;align-items:center;gap:3px;}
+.duty-people {display:flex;align-items:center;justify-content:center;gap:3px;}
+.duty-people input {width:42px;min-width:0;min-height:36px;padding:3px 1px;text-align:center;font:inherit;font-size:16px;font-weight:600;color:var(--xl-ink);border:1px solid var(--xl-line);border-radius:6px;background:var(--panel);}
+.duty-earned {font-size:16px;font-weight:700;color:var(--good);}
+.duty-ratio small {font-size:11px;line-height:1.2;color:var(--text);}

diff --git a/index.html b/index.html
@@ -274,7 +274,7 @@
         <li><b>上课中</b>：哪个小组达标就点对应的加减按钮，本节合计和累计会自动重算。</li>
         <li><b>记错了要改</b>：
           <ul>
-            <li>数字框可以直接点进去改成任意值（小组分 0-5、值日分 0-5、手机未入袋 0-本组人数）；</li>
+            <li>数字框可以直接点进去改成任意值（小组分 0-5、手机未入袋 0-本组人数；值日填参与/应到人数，自动换算0-5分）；</li>
             <li>按「↶ 撤销」（或 <b>Ctrl+Z</b>）可以逐步退回，最多 60 步，跨课次也能退；</li>
             <li>某一组整节课记乱了，点该组的「↺ 清零」重来（也能撤销）；</li>
             <li>个人扣分：点姓名扣1分，点“返1”返还1分，点“清零”清空扣分；不再双击清零。</li>

diff --git a/docs/使用指南.md b/docs/使用指南.md
@@ -80,7 +80,7 @@
 | 首个正确 | 点击“未加分 / 已加分 +1”切换 | 0或+1 |
 | 小组分 | 加减按钮或直接输入0–10 | 加上输入分数 |
 | 手机未入袋次数 | “＋”增加扣分次数，“−”减少次数 | 每增加1次扣1分，最多本组人数 |
-| 值日分 | 加减按钮或直接输入0–5 | 加上输入分数 |
+| 值日分 | 填参与人数，应到默认本组人数、可调整 | 自动按5×参与÷应到换算，保留两位小数 |
 
 **本节小组合计 = 首个正确 + 小组分 + 值日分 − 手机未入袋次数。**
 
@@ -124,7 +124,7 @@
 3. 小计自动计算；可填写组长/复核人和备注，填写后自动保存并同步。
 4. 点击“导出本组CSV”或“打印本组评分表”。无课次时先回到“上课记分”开课。
 
-这套项目评价与课堂小组分、违纪个人扣分**独立保存**，不会自动叠加到排行的个人总分。截图中的9分、8分是项目评价小计，不是课堂排行总分。
+项目评价按本人、课次独立保存，自动汇入个人原始累计及任务达成率。个人总分＝全组累计净加分＋个人项目累计分−个人扣分；项目小计与原始总分、百分制赋分分别展示。
 
 ![组内项目评价](screenshots/07-individual-assessment.png)
 
@@ -208,7 +208,7 @@
 
 **手机区点“＋”怎么减分？** 它增加扣分次数，每次−1分；减少次数会返还相应分数。
 
-**为什么组内个人评分没有进入排行？** 项目评价独立保存，当前没有自动折算规则。
+**组内个人评分会进入排行吗？** 会。保存项目分后自动更新个人原始累计、任务达成率、学习赋分、平时分和期末需考，无需另填总分。
 
 **为什么某班不能导入替换名单？** 该班已有课次。先备份，用新学期的新班级名导入，保留旧成绩。
 
@@ -225,8 +225,8 @@
 
 - 原始累计继续保留：全组累计加分＋个人项目累计分−个人扣分，不重写旧积分。
 - 任务达成率＝本人已评分的命名项目得分÷这些项目满分，每个项目满分5。明确0分计入分母，空白/未批改不当0分，但显示待批改并保持预估状态。可设置班级固定任务满分基准；禁止用班内最高分或名次替代满分。
-- 小组奖惩取原始全组累计，限制在−5～＋5（本班可降低上限）；个人扣分从任务表现部分扣除。
-- **学习分＝40＋clamp(40×任务达成率＋有限小组奖惩−个人扣分，0，40)**，范围40～80。表现达到上限后奖励不突破80，行为扣分不抹去40基础。
+- 全学期的首个正确、小组分、值日分全部累计，减去手机未入袋扣分，作为全组累计净加分；每位组员获得该组净加分，不设学期奖励5分上限。个人扣分只计算一次。
+- **综合比例＝clamp((已评项目实得＋全组累计净加分−个人扣分)÷项目满分，0，1)**；**学习分＝40＋40×综合比例**，范围40～80。项目满分随已评分项目自动累计，原始奖励不限总积分；最终平时百分制最高100。没有有效任务满分时保持预估，不凭奖励猜测达成率。
 - **平时分＝学习分＋考勤分（0～20）**。正常出勤、无额外奖惩：达成100%→100，80%→92，60%→84，0%→60。考勤扣分可以低于60。
 - 基础要求须由教师确认：待确认／已满足／待补做。没有任务证据、待批改、未确认基础要求、考勤尚未登记齐时，一律标为“预估”，不会自动认定学生已完成实训或及格。未记录考勤按正常预估，不伪造签到。
 - 资料齐全条件：基础已满足、有有效任务满分、命名项目无待批改、每个已录入课次均有本人的考勤记录。实际期末已填但资料未齐时综合分也须待复核。
@@ -235,7 +235,7 @@
 
 ![达标赋分与平时分](screenshots/08-rankings.png)
 
-1. 进入“本学期总分”，查看原始累计、任务得分/满分、达成率、有限奖励、学习赋分、考勤、平时分与期末需考。
+1. 进入“本学期总分”，查看原始累计、任务得分/满分、达成率、累计全组净加分、学习赋分、考勤、平时分与期末需考。
 2. 在学生姓名下确认基础要求。只有教师核实必要实训/补做与出勤要求后才选择“已满足”，不要因为预估分达到60就直接确认。
 3. 项目必须命名。未批改保持空白；确实未完成并已评定才填0。不得为了消除待批改提示而批量写0。
 4. 通常保持自动满分。若采用统一固定目标，在“考勤与规则→本班赋分与考勤规则”设置手动任务满分；各班独立，改变只重算派生分，不改旧积分。
@@ -244,3 +244,15 @@
 ![考勤与规则](screenshots/15-attendance.png)
 
 按班级、课次登记考勤；单人选择或搜索后勾选批量应用，最后点击保存。未保存时阻止误切页面。历史考勤保留扣单位快照，修改规则仅用于后续登记；修改旧扣分请在原课次重新保存。停用自定义原因不删除历史。
+
+
+## 只录原始分数，系统实时换算
+
+1. **个人项目分**：给项目命名并填每人0–5分；4分自动代表该项目80%达成。未批改留空，确实未得分填0。
+2. **课堂奖励**：首个正确、小组分照常录入，所有课次持续累计，没有学期奖励5分封顶。
+3. **值日人数**：在绿色值日格填写参与人数，应到默认本组人数，也可修正。例如4/5人自动4分、3/4人自动3.75分、全员参与5分。更换课次后独立记录。旧的手填值日分保留，只有填入人数才按新规则换算；不反推历史人数。
+4. **考勤**：按课次选择状态并保存；计划课次、迟到/旷课/请假/早退扣单位可在本班规则中设置。历史扣单位保留快照。
+
+网站自动更新项目达成率、综合比例、学期原始累计、学习赋分、考勤分、平时百分制、折合40分和期末需考；修改、补录、撤销、重做和云端恢复后均重新计算。值日撤销同时恢复人数和分数，JSON云备份保存两者；本课CSV和打印也展示人数。基础资格仍由教师确认，未批改或考勤未齐时显示预估。
+
+算例：项目实得80/100，累计净奖励10，无个人扣分 → 综合90%，学习76，正常考勤20 → 平时96，折合38.4，综合及格60所需期末36.0。奖励增到20 → 平时100；随后即使奖励继续增加，原始积分继续保留，百分制最高100。新增更多项目后，系统使用新的累计满分重新换算，不需教师手算。

diff --git a/项目交接.md b/项目交接.md
@@ -1,3 +1,5 @@
+当前有效规则见末尾“长期奖励与值日自动换算”。之前各轮记录为历史，旧奖励±5封顶已作废。
+
 ## 2026-10-17 宽屏侧栏及连续扣分修复
 
 用户补充确认表格式上一行已有姓名与序号，下一行不再重复姓名；仅移除表格式扣分按钮中的可见姓名，悬停提示仍含成员名，卡片式完整姓名保留。课堂小组分照常汇总累计总表和排行；组内项目评价仍独立，不擅自改变合分公式。
@@ -212,3 +214,10 @@ Pages：https://zcq19991029.github.io/ye-ye-score-helper/
 - classroom-bubble-score只做源码核对，不在此窗口改写或发布。其主入口cloud.html、lessonTaskLimit返回null，需配置真实任务满分后再接达标模型。已准备详细原窗口提示词，用户明确允许这种交接方式。
 
 - 发布前验证：达标公式21、前后端99、后端29、密码21、打包23项（共193）通过。虚构浏览器实测基础确认/待补做和考勤齐全后刷新恢复，真实账号只备份，不自动确认资格、不修改积分/考勤。
+## 2026-10-17 长期奖励与值日自动换算
+
+- 旧全学期奖励±5上限作废。综合比例=(已评项目实得+全组累计净加分−个人扣分)/项目满分，限定0–1；学习40+40×比例，再加考勤20。全部课次奖励参与，原始积分不封顶，最终百分制100封顶。项目80/100+奖励10→平时96（正常考勤），奖励20→100。没有有效任务分母仍预估，不按班级最高分赋分。
+- 值日填参与/应到，应到默认现有组员数，自动5×参与/应到，保留两位小数。旧手填分原样保留，不推断人数；录入人数后才换算。人数与分数一起云存、备份、撤销、重做；本课CSV/打印附人数。
+- 自动重算达成率、学期累计、学习赋分、考勤、平时、折合和期末目标。无账号或数据库结构迁移，不改真实名单、积分、考勤和资格确认。旧bonusCap仅兼容存档，不再参与计算或提供设置入口。
+- 本轮25公式、110前后端、29后端、21密码、23打包，共208项通过。覆盖奖励超过5、同比例规模、3/4=3.75、4/5=4、非法人数、元数据撤销/重做、独立浏览器恢复。
+- 课堂气泡原项目未改写/未发布；按用户允许的原窗口交接方式，详细提示词已更新最新公式和值日要求。发布证据存私有迁移记录。
